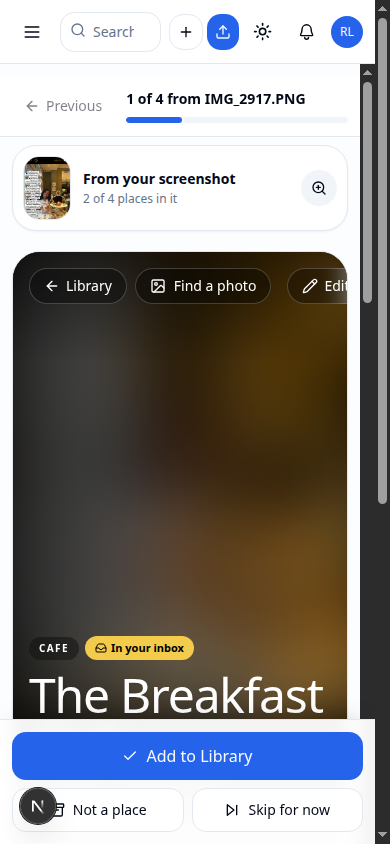
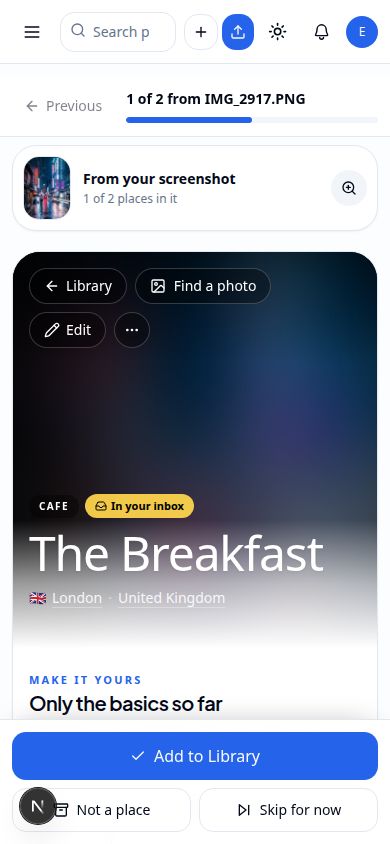
no-mistakes(review): Fix soft cover, phone hero, and zoom key

diff --git a/src/components/places/place-view/place-view.tsx b/src/components/places/place-view/place-view.tsx
@@ -4,6 +4,7 @@ import * as React from "react"
 import dynamic from "next/dynamic"
 import { useRouter } from "next/navigation"
 import { CalendarHeart, Coins, ImagePlus, MapPin, PenLine, Plus, Quote, Sunrise, type LucideIcon } from "lucide-react"
+import { coverPhoto } from "@/lib/cover-photo"
 import { formatDateOnly } from "@/lib/place-view/format"
 import { notify } from "@/lib/notify"
 import type { Attachment, PlaceWithRelations } from "@/types/database"
@@ -36,7 +37,7 @@ export interface PlaceViewHandles {
 /** Cover first, then the rest in their stored order. */
 export function orderedPhotos(attachments: Attachment[]): Attachment[] {
   const photos = attachments.filter((a) => a.type === "photo")
-  const cover = photos.find((p) => p.isPrimary === 1) ?? photos[0]
+  const cover = coverPhoto(attachments)
   return cover ? [cover, ...photos.filter((p) => p !== cover)] : []
 }
 
@@ -199,6 +200,7 @@ export function PlaceView({
   alsoIn,
   showMobileActionBar = true,
   softCover = false,
+  fitReviewBar = false,
 }: {
   place: PlaceWithRelations
   editing?: boolean
@@ -216,6 +218,8 @@ export function PlaceView({
   showMobileActionBar?: boolean
   /** Blur a shared-screenshot cover and offer Find a photo. Review sets this. */
   softCover?: boolean
+  /** On a phone, keep the hero title above Review's fixed action bar. */
+  fitReviewBar?: boolean
 }) {
   const router = useRouter()
   const photos = React.useMemo(() => orderedPhotos(place.attachments), [place.attachments])
@@ -308,7 +312,7 @@ export function PlaceView({
 
   return (
     <SectionEditProvider place={place} onRefresh={() => router.refresh()} handlesRef={sectionHandlesRef} editingAll={editing} onExitEditing={onDoneEditing}>
-      <PlaceHero place={displayPlace} photos={photos} softCover={softCover} onEdit={onEdit} onOpenClassic={onOpenClassic} onPrefetchEdit={onPrefetchEdit} onOpenPhoto={setLightbox} onPhotoAttached={onPhotoAttached} onArchive={onArchive} onDeleted={onDeleted} onRestored={onRestored} />
+      <PlaceHero place={displayPlace} photos={photos} softCover={softCover} fitReviewBar={fitReviewBar} onEdit={onEdit} onOpenClassic={onOpenClassic} onPrefetchEdit={onPrefetchEdit} onOpenPhoto={setLightbox} onPhotoAttached={onPhotoAttached} onArchive={onArchive} onDeleted={onDeleted} onRestored={onRestored} />
       <QuickFacts place={displayPlace} />
       <PlaceColumns
         place={place}

diff --git a/src/components/places/place-view/place-hero.tsx b/src/components/places/place-view/place-hero.tsx
@@ -34,6 +34,7 @@ export function PlaceHero({
   onDeleted,
   onRestored,
   softCover = false,
+  fitReviewBar = false,
 }: {
   place: PlaceWithRelations
   photos: Attachment[]
@@ -45,8 +46,10 @@ export function PlaceHero({
   onArchive?: () => void
   onDeleted?: () => void
   onRestored?: () => void
-  /** The only image is a screenshot shared with other places: blur it and offer a real photo. */
+  /** The cover is a screenshot shared with other places: blur it and offer a real photo. */
   softCover?: boolean
+  /** On a phone, keep the title above Review's fixed action bar. Desktop stays 72vh. */
+  fitReviewBar?: boolean
 }) {
   const edit = useSectionEdit()
   const editing = Boolean(edit?.editingAll)
@@ -86,8 +89,16 @@ export function PlaceHero({
       <div className="absolute inset-x-0 top-0 h-28 bg-gradient-to-b from-black/50 to-transparent" />
       <div className="absolute inset-x-0 bottom-0 h-32 bg-gradient-to-t from-background via-background/60 to-transparent sm:h-40" />
 
-      <div className={cn("relative flex flex-col justify-between gap-10 px-4 pb-10 pt-4 sm:px-8 sm:pb-16 sm:pt-6", cover ? "min-h-[min(72vh,38rem)]" : "min-h-[26rem]", editing && "pt-16 sm:pt-20")}>
-        <div className="flex items-center gap-2">
+      <div className={cn(
+        "relative flex flex-col justify-between gap-10 px-4 pb-10 pt-4 sm:px-8 sm:pb-16 sm:pt-6",
+        cover
+          ? fitReviewBar
+            ? "min-h-[min(72vh,calc(100svh-28rem))] sm:min-h-[min(72vh,38rem)]"
+            : "min-h-[min(72vh,38rem)]"
+          : "min-h-[26rem]",
+        editing && "pt-16 sm:pt-20",
+      )}>
+        <div className="flex max-sm:flex-wrap items-center gap-2">
           <Link href={back.href} className={cn("inline-flex h-9 items-center gap-1.5 rounded-full px-3.5 text-sm font-medium", GLASS)}>
             <ArrowLeft className="h-4 w-4" aria-hidden />
             <span>{back.label}</span>
@@ -100,6 +111,7 @@ export function PlaceHero({
               hasGooglePlaceId={Boolean(place.googlePlaceId)}
               onAttached={onPhotoAttached}
               label="Find a photo"
+              primary="always"
               buttonVariant="ghost"
               className={cn("h-9 rounded-full px-3.5", GLASS, "hover:text-white")}
             />

diff --git a/src/__tests__/review/review-queue-data.test.ts b/src/__tests__/review/review-queue-data.test.ts
@@ -51,6 +51,10 @@ describe('loadReviewQueue with real SQLite data', () => {
       ['att_new_1', 'plc_alice_new_1', 'photo', 'https://example.test/alice-new.jpg', 'new-list.jpg', 1],
     )
     await run(
+      `INSERT INTO attachments (id,place_id,type,uri,filename,is_primary,created_at) VALUES (?,?,?,?,?,?,?)`,
+      ['att_new_1_extra', 'plc_alice_new_1', 'photo', 'https://example.test/breakfast-extra.jpg', 'extra.jpg', 0, '2026-10-18T12:00:05.000Z'],
+    )
+    await run(
       `INSERT INTO attachments (id,place_id,type,uri,filename,is_primary) VALUES (?,?,?,?,?,?)`,
       ['att_new_2_shot', 'plc_alice_new_2', 'photo', 'https://example.test/alice-new.jpg', 'new-list.jpg', 0],
     )
@@ -89,6 +93,12 @@ describe('loadReviewQueue with real SQLite data', () => {
     expect(queue.entries.some((entry) => entry.userId === BOB.id)).toBe(false)
     expect(queue.postcard?.place.id).toBe('plc_alice_new_1')
     expect(queue.postcard?.place.sources.map((source) => source.id)).toEqual(['src_alice_new'])
+    const photos = queue.postcard?.place.attachments.filter((attachment) => attachment.type === 'photo') ?? []
+    expect(photos.map((photo) => photo.uri)).toEqual(expect.arrayContaining([
+      'https://example.test/alice-new.jpg',
+      'https://example.test/breakfast-extra.jpg',
+    ]))
+    expect(photos.find((photo) => photo.isPrimary === 1)?.uri).toBe('https://example.test/alice-new.jpg')
     expect(queue.postcard?.screenshot).toMatchObject({
       sourceId: 'src_alice_new',
       url: 'https://example.test/alice-new.jpg',
@@ -157,7 +167,7 @@ describe('loadReviewQueue with real SQLite data', () => {
     }
   })
 
-  it('treats a shared screenshot as a soft cover only when it is the only photo', async () => {
+  it('treats a shared screenshot as a soft cover only when that file is the cover', async () => {
     const withOwnPhoto = await loadReviewPostcard(ALICE.id, 'plc_alice_new_2')
     expect(withOwnPhoto?.screenshot?.softCover).toBe(false)
     expect(withOwnPhoto?.screenshot?.siblings.map((sibling) => sibling.name)).not.toContain('Bob Secret Hideaway')

diff --git a/src/lib/review-queue.ts b/src/lib/review-queue.ts
@@ -1,5 +1,6 @@
 import { eq, inArray, sql } from 'drizzle-orm'
 import { places, sources, sourcesToPlaces } from '@/db/schema'
+import { coverPhoto } from '@/lib/cover-photo'
 import { getPlaceWithRelations } from '@/lib/db-queries'
 import { getExploreCollections, getExplorePlacesInCity } from '@/lib/explore/queries'
 import { forUser } from '@/lib/tenant-db'
@@ -37,8 +38,8 @@ export interface ReviewScreenshotSibling {
 
 /**
  * The screenshot beside the postcard. `siblings` is every place linked to that
- * source. `softCover` is true when this place's only photos are that shared
- * screenshot, so the hero should blur it and offer Find a photo.
+ * source. `softCover` is true when the cover photo is that shared screenshot,
+ * so the hero should blur it and offer Find a photo.
  */
 export interface ReviewScreenshot {
   sourceId: string
@@ -91,17 +92,16 @@ function nameFromSourceMeta(meta: { uploadInfo?: { originalName?: string; filena
 
 /**
  * A multi-place screenshot is a poor cover: every place would show the same
- * unreadable crop. Blur it only when that file is the place's only photo.
+ * unreadable crop. Blur it when that file is the cover — the primary photo,
+ * or the first photo when none is primary — even if other photos sit behind it.
  */
 export function isSharedScreenshotCover(
-  attachments: Array<{ type: string; uri: string }>,
+  attachments: Array<{ type: string; uri: string; isPrimary?: number | null }>,
   screenshotUrl: string,
   siblingCount: number,
 ): boolean {
   if (siblingCount < 2 || !screenshotUrl) return false
-  const photos = attachments.filter((attachment) => attachment.type === 'photo')
-  if (photos.length === 0) return false
-  return photos.every((photo) => photo.uri === screenshotUrl)
+  return coverPhoto(attachments)?.uri === screenshotUrl
 }
 
 function compareSiblings(a: ReviewScreenshotSibling, b: ReviewScreenshotSibling): number {

diff --git a/src/components/review/review-queue.tsx b/src/components/review/review-queue.tsx
@@ -44,6 +44,14 @@ const RESTORED_LABEL = {
   archived: 'Archive',
 } as const
 
+function zoomKeyBlocked(target: EventTarget | null): boolean {
+  if (!(target instanceof HTMLElement)) return false
+  if (target.closest('input, textarea, select, [contenteditable="true"]')) return true
+  if (target.closest('[role="combobox"], [role="listbox"], [role="menu"]')) return true
+  const dialog = target.closest('[role="dialog"], [role="alertdialog"]')
+  return Boolean(dialog && !dialog.hasAttribute('data-screenshot-zoom'))
+}
+
 function isTypingTarget(target: EventTarget | null): boolean {
   return target instanceof HTMLElement && Boolean(
     target.closest('input, textarea, select, [contenteditable="true"], [role="combobox"], [role="dialog"], [role="alertdialog"], [role="menu"]')
@@ -556,9 +564,8 @@ export function ReviewQueue({ entries, postcard, trips, initialPlaceId }: Review
   React.useEffect(() => {
     const onKeyDown = (event: KeyboardEvent) => {
       if (event.defaultPrevented || event.metaKey || event.ctrlKey || event.altKey) return
-      const typingField = event.target instanceof HTMLElement
-        && Boolean(event.target.closest('input, textarea, select, [contenteditable="true"]'))
-      if (event.key.toLowerCase() === 'z' && !typingField) {
+      if (event.key.toLowerCase() === 'z') {
+        if (event.repeat || zoomKeyBlocked(event.target)) return
         event.preventDefault()
         setZoomOpen((open) => !open)
         return
@@ -640,6 +647,7 @@ export function ReviewQueue({ entries, postcard, trips, initialPlaceId }: Review
               alsoIn={current.postcard.alsoIn}
               editing={editingId === current.placeId}
               softCover={Boolean(shot?.softCover)}
+              fitReviewBar
               handlesRef={viewHandlesRef}
               onEdit={() => setEditingId(current.placeId)}
               onDoneEditing={() => {

diff --git a/src/__tests__/review/review-queue.test.tsx b/src/__tests__/review/review-queue.test.tsx
@@ -905,9 +905,31 @@ describe('ReviewQueue decisions', () => {
     expect(screen.getByTestId('postcard')).toHaveAttribute('data-editing', 'yes')
     expect(mockPush).not.toHaveBeenCalled()
 
+    fireEvent.keyDown(window, { key: 'z', repeat: true })
+    expect(screen.queryByRole('dialog', { name: 'Screenshot' })).not.toBeInTheDocument()
+
+    const menu = document.createElement('div')
+    menu.setAttribute('role', 'menu')
+    document.body.appendChild(menu)
+    const otherDialog = document.createElement('div')
+    otherDialog.setAttribute('role', 'dialog')
+    document.body.appendChild(otherDialog)
+    const combo = document.createElement('button')
+    combo.setAttribute('role', 'combobox')
+    document.body.appendChild(combo)
+    fireEvent.keyDown(menu, { key: 'z' })
+    fireEvent.keyDown(otherDialog, { key: 'z' })
+    fireEvent.keyDown(combo, { key: 'z' })
+    expect(screen.queryByRole('dialog', { name: 'Screenshot' })).not.toBeInTheDocument()
+    menu.remove()
+    otherDialog.remove()
+    combo.remove()
+
     fireEvent.keyDown(window, { key: 'z' })
+    const shot = screen.getByRole('dialog', { name: 'Screenshot' })
+    fireEvent.keyDown(shot, { key: 'z', repeat: true })
     expect(screen.getByRole('dialog', { name: 'Screenshot' })).toBeInTheDocument()
-    fireEvent.keyDown(window, { key: 'z' })
+    fireEvent.keyDown(shot, { key: 'z' })
     await waitFor(() => expect(screen.queryByRole('dialog', { name: 'Screenshot' })).not.toBeInTheDocument())
 
     await user.click(screen.getByRole('button', { name: /Two Cafe/ }))

diff --git a/src/components/places/find-image-dialog.tsx b/src/components/places/find-image-dialog.tsx
@@ -58,6 +58,8 @@ interface FindImageDialogProps {
   open: boolean;
   onOpenChange: (open: boolean) => void;
   onAttached?: () => void;
+  /** `always` makes the attached photo the cover. Defaults to first-photo-only. */
+  primary?: 'if-first' | 'always';
 }
 
 export function FindImageDialog({
@@ -68,6 +70,7 @@ export function FindImageDialog({
   open,
   onOpenChange,
   onAttached,
+  primary,
 }: FindImageDialogProps) {
   const seedQuery = `${placeName}${placeCity ? ' ' + placeCity : ''}`.trim();
   const initialTab: Source = hasGooglePlaceId ? 'google_places' : 'wikimedia';
@@ -194,6 +197,7 @@ export function FindImageDialog({
           height: item.height,
           attribution: item.attribution,
           caption: item.caption,
+          ...(primary === 'always' ? { primary: 'always' as const } : {}),
         }),
       });
       const body = await res.json().catch(() => ({}));

diff --git a/src/__tests__/api/attachments-from-source.test.ts b/src/__tests__/api/attachments-from-source.test.ts
@@ -69,6 +69,18 @@ describe('POST /api/places/[id]/attachments/from-source', () => {
     expect(rows[0].is_primary).toBe(1);
   });
 
+  it('replaces the cover when primary is always', async () => {
+    await post(FIXTURE.alicePlace, googleBody('places/a/photos/1'));
+    const res = await post(FIXTURE.alicePlace, { ...googleBody('places/a/photos/2'), primary: 'always' });
+    expect(res.status).toBe(200);
+
+    const rows = await photos(FIXTURE.alicePlace);
+    expect(rows.map((r) => [r.source_id, r.is_primary])).toEqual([
+      ['places/a/photos/1', 0],
+      ['places/a/photos/2', 1],
+    ]);
+  });
+
   it('leaves the primary alone for a second photo, and dedups a repeat', async () => {
     await post(FIXTURE.alicePlace, googleBody('places/a/photos/1'));
     await post(FIXTURE.alicePlace, googleBody('places/a/photos/2'));

diff --git a/src/app/api/places/[id]/attachments/from-source/route.ts b/src/app/api/places/[id]/attachments/from-source/route.ts
@@ -49,6 +49,7 @@ const BodySchema = z.object({
   height: z.number().nullable(),
   attribution: AttributionSchema,
   caption: z.string().optional(),
+  primary: z.enum(['if-first', 'always']).optional(),
 });
 
 export async function POST(
@@ -62,9 +63,15 @@ export async function POST(
     const body = BodySchema.parse(json);
 
     const result = await attachPhotoFromSource(user.id, placeId, {
-      ...body,
+      source: body.source,
+      sourceId: body.sourceId,
+      thumbnailUrl: body.thumbnailUrl,
+      fullUrl: body.fullUrl,
+      width: body.width,
+      height: body.height,
+      caption: body.caption,
       attribution: body.attribution as AttributionMeta,
-    });
+    }, body.primary);
     if (!result.ok) {
       return NextResponse.json({ error: result.error }, { status: result.status });
     }

diff --git a/src/components/places/find-image-button.tsx b/src/components/places/find-image-button.tsx
@@ -21,6 +21,8 @@ interface FindImageButtonProps {
   className?: string;
   /** Visible label. Defaults to "Find Image". */
   label?: string;
+  /** `always` makes the attached photo the cover. Defaults to first-photo-only. */
+  primary?: 'if-first' | 'always';
 }
 
 export function FindImageButton({
@@ -34,6 +36,7 @@ export function FindImageButton({
   size,
   className,
   label,
+  primary,
 }: FindImageButtonProps) {
   const [open, setOpen] = useState(false);
 
@@ -83,6 +86,7 @@ export function FindImageButton({
         open={open}
         onOpenChange={setOpen}
         onAttached={onAttached}
+        primary={primary}
       />
     </>
   );

diff --git a/src/components/review/screenshot-evidence.tsx b/src/components/review/screenshot-evidence.tsx
@@ -168,7 +168,7 @@ export function ScreenshotEvidence({
 
       {available && url && (
         <Dialog open={zoomOpen} onOpenChange={onZoomOpenChange}>
-          <DialogContent className="max-w-5xl border-0 bg-black p-2 text-white sm:rounded-2xl">
+          <DialogContent data-screenshot-zoom="" className="max-w-5xl border-0 bg-black p-2 text-white sm:rounded-2xl">
             <DialogTitle className="sr-only">Screenshot</DialogTitle>
             <ShotImage url={url} alt={`Screenshot where ${placeName} was found`} className="max-h-[85vh] w-full rounded-xl object-contain" />
           </DialogContent>

diff --git a/src/lib/cover-photo.ts b/src/lib/cover-photo.ts
@@ -1,0 +1,7 @@
+/** The photo a hero shows: the primary, otherwise the first photo. */
+export function coverPhoto<T extends { type: string; uri: string; isPrimary?: number | null }>(
+  attachments: readonly T[],
+): T | undefined {
+  const photos = attachments.filter((attachment) => attachment.type === 'photo')
+  return photos.find((photo) => photo.isPrimary === 1) ?? photos[0]
+}
